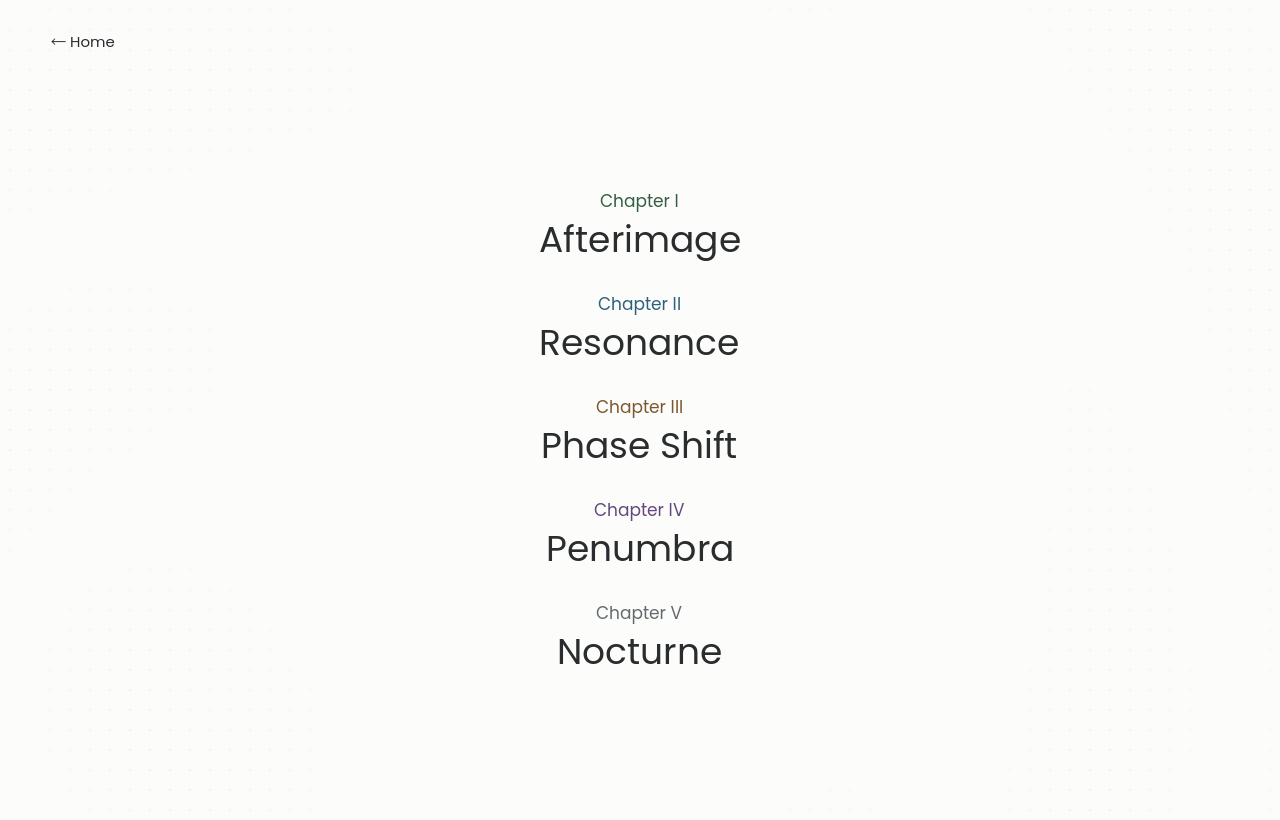
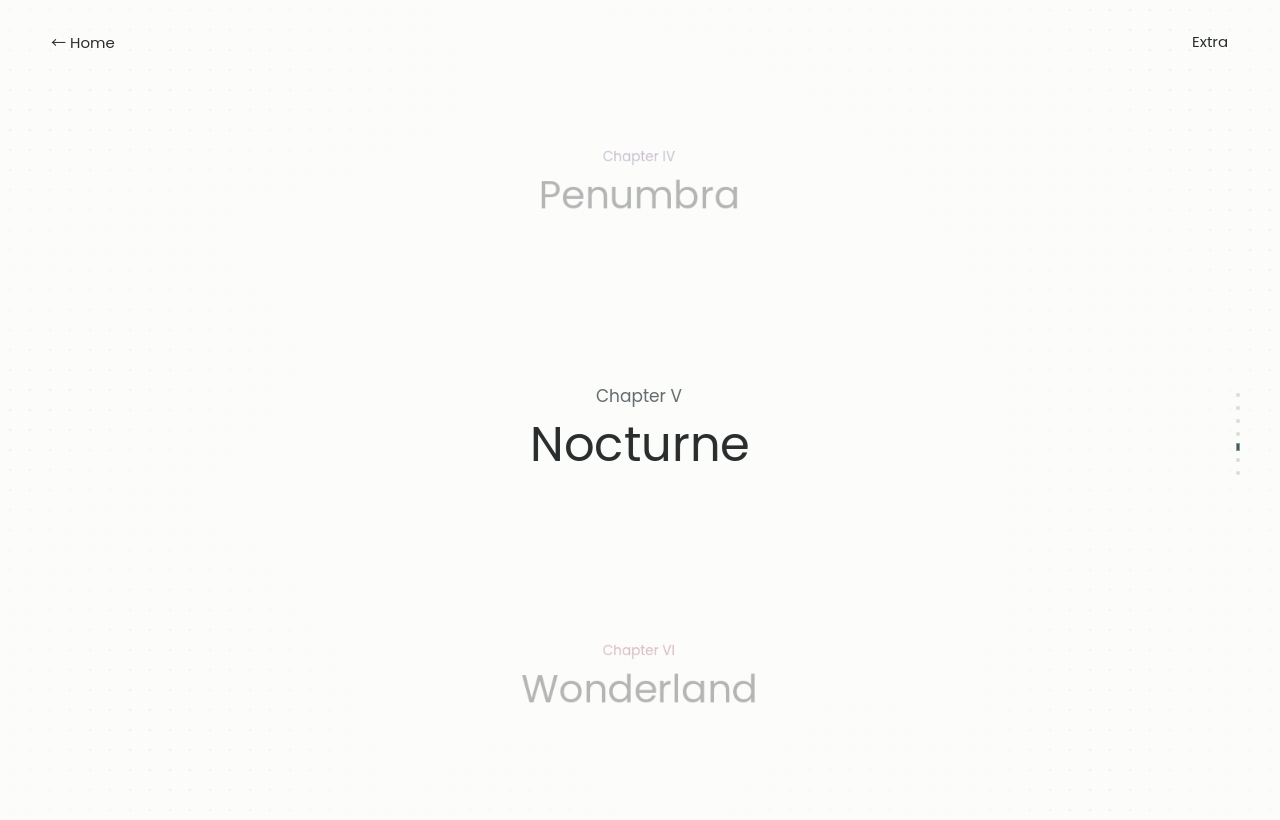
Add a swipeable chapter reel with centred titles and snapping

diff --git a/tools/check.py b/tools/check.py
@@ -33,4 +33,5 @@ if args.visual:
     ui_args += ["--", "--capture"]
 run(ui_args, "0 failures.")
 run([godot, "--headless", "--path", ".", "--script", "tests/test_guides.gd"], "0 failures.")
+run([godot, "--headless", "--path", ".", "--script", "tests/test_chapters.gd"], "0 failures.")
 print("All ECHO checks passed.")

diff --git a/README.md b/README.md
@@ -92,7 +92,7 @@ Click a distant plate or hover over it to highlight its linked gates. Hints prog
 
 ## Chapters and rooms
 
-Choose a chapter in **Chapters** to see its rooms. **07 Turnabout**, **11 First Contact**, and **15 Hush** are available as direct chapter entries. Subsequent rooms unlock in order. Wonderland and Inferno rooms are directly accessible.
+In **Chapters**, swipe vertically, use the mouse wheel, or press ↑/↓ to browse. The centred chapter stays large while its neighbours fade into the surrounding space. Tap a chapter or press Enter to see its rooms; returning restores the same selection. **07 Turnabout**, **11 First Contact**, and **15 Hush** are available as direct chapter entries. Subsequent rooms unlock in order. Wonderland and Inferno rooms are directly accessible.
 
 ![The chapter index](docs/images/chapters.png)
 
